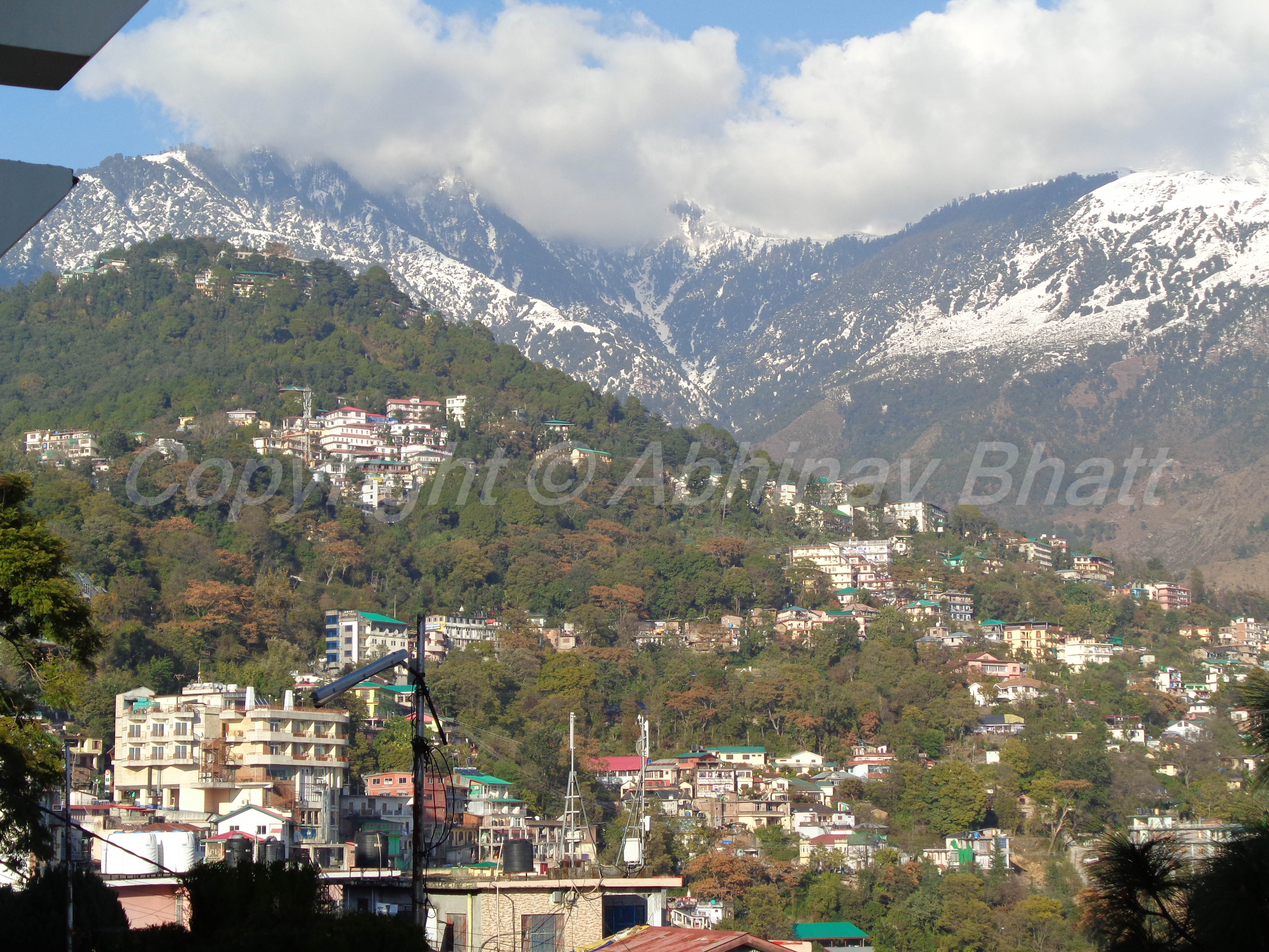
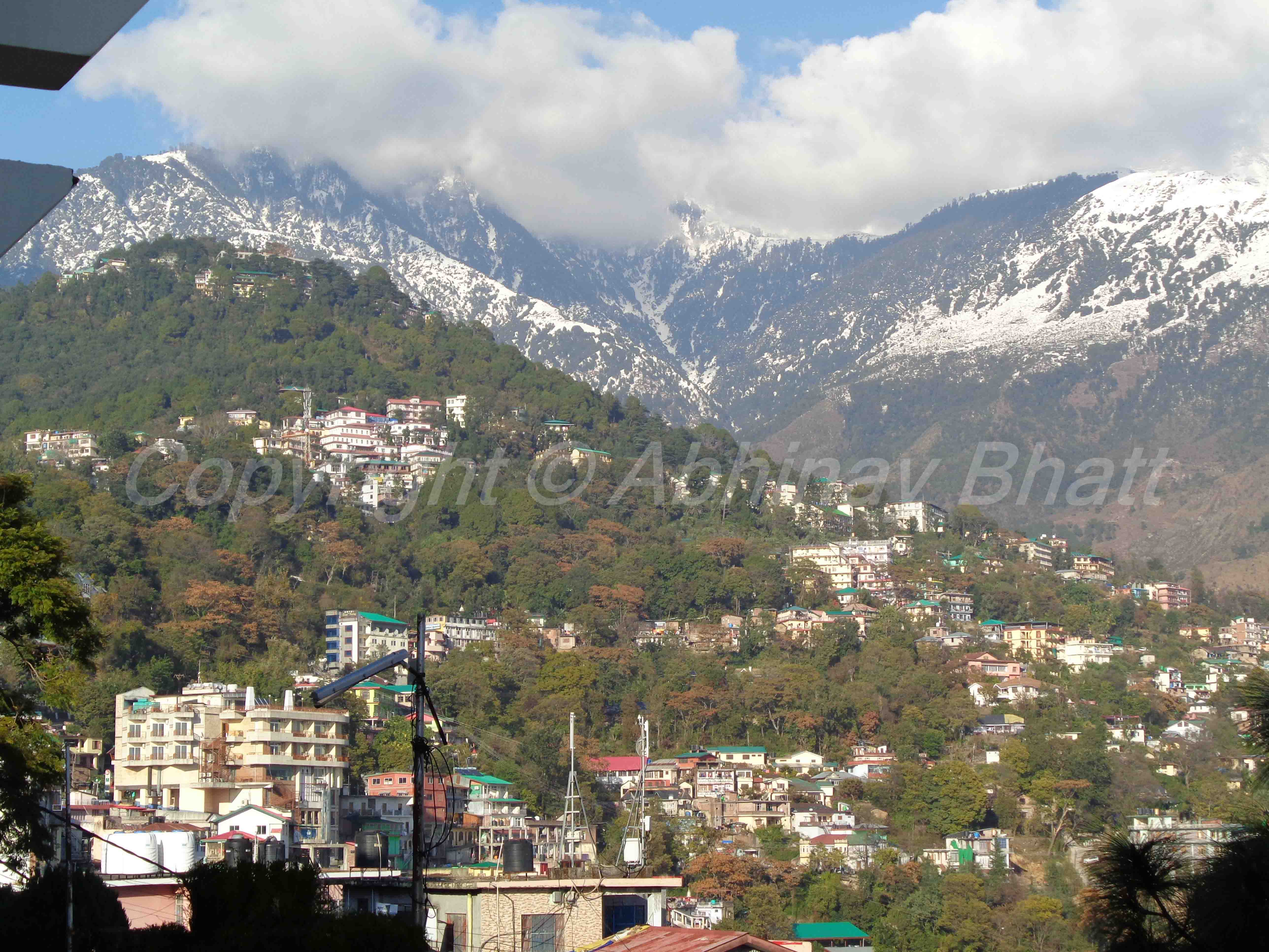
updated First Version

diff --git a/gallery.html b/gallery.html
@@ -138,8 +138,8 @@
                     </a>
                 </div>
                 <div class="col-lg-4 col-md-6 col-sm-6 portfolio-thumbnail all na">
-                    <a class="popup-img" href="images/portfolio/nature/2.png">
-                       <img src="images/portfolio/nature/2.png" alt="img" style="width:320px;height:280px">
+                    <a class="popup-img" href="images/portfolio/nature/2.jpg">
+                       <img src="images/portfolio/nature/2.jpg" alt="img" style="width:320px;height:280px">
                      </a>
                  </div>
                  <div class="col-lg-4 col-md-6 col-sm-6 portfolio-thumbnail na all">
@@ -148,13 +148,13 @@
                      </a>
                  </div>
                  <div class="col-lg-4 col-md-6 col-sm-6 portfolio-thumbnail na all">
-                    <a class="popup-img" href="images/portfolio/nature/4.png">
-                       <img src="images/portfolio/nature/4.png" alt="img" style="width:320px;height:280px">
+                    <a class="popup-img" href="images/portfolio/nature/4.jpg">
+                       <img src="images/portfolio/nature/4.jpg" alt="img" style="width:320px;height:280px">
                      </a>
                  </div>
                  <div class="col-lg-4 col-md-6 col-sm-6 portfolio-thumbnail na all">
-                    <a class="popup-img" href="images/portfolio/nature/5.png">
-                       <img src="images/portfolio/nature/5.png" alt="img" style="width:320px;height:280px">
+                    <a class="popup-img" href="images/portfolio/nature/5.jpg">
+                       <img src="images/portfolio/nature/5.jpg" alt="img" style="width:320px;height:280px">
                      </a>
                  </div>
                  <div class="col-lg-4 col-md-6 col-sm-6 portfolio-thumbnail na all">
@@ -163,8 +163,8 @@
                      </a>
                  </div>
                  <div class="col-lg-4 col-md-6 col-sm-6 portfolio-thumbnail na all">
-                    <a class="popup-img" href="images/portfolio/nature/7.png">
-                       <img src="images/portfolio/nature/7.png" alt="img" style="width:320px;height:280px">
+                    <a class="popup-img" href="images/portfolio/nature/7.jpg">
+                       <img src="images/portfolio/nature/7.jpg" alt="img" style="width:320px;height:280px">
                      </a>
                  </div>
                  <div class="col-lg-4 col-md-6 col-sm-6 portfolio-thumbnail na all">
@@ -173,38 +173,38 @@
                      </a>
                  </div>
                  <div class="col-lg-4 col-md-6 col-sm-6 portfolio-thumbnail na all">
-                    <a class="popup-img" href="images/portfolio/nature/9.png">
-                       <img src="images/portfolio/nature/9.png" alt="img" style="width:320px;height:280px">
+                    <a class="popup-img" href="images/portfolio/nature/9.jpg">
+                       <img src="images/portfolio/nature/9.jpg" alt="img" style="width:320px;height:280px">
                      </a>
                  </div>
                  <div class="col-lg-4 col-md-6 col-sm-6 portfolio-thumbnail na all">
-                    <a class="popup-img" href="images/portfolio/nature/10.png">
-                       <img src="images/portfolio/nature/10.png" alt="img" style="width:320px;height:280px">
+                    <a class="popup-img" href="images/portfolio/nature/10.jpg">
+                       <img src="images/portfolio/nature/10.jpg" alt="img" style="width:320px;height:280px">
                      </a>
                  </div>
                  <div class="col-lg-4 col-md-6 col-sm-6 portfolio-thumbnail na all">
-                    <a class="popup-img" href="images/portfolio/nature/11.png">
-                       <img src="images/portfolio/nature/11.png" alt="img" style="width:320px;height:280px">
+                    <a class="popup-img" href="images/portfolio/nature/11.jpg">
+                       <img src="images/portfolio/nature/11.jpg" alt="img" style="width:320px;height:280px">
                      </a>
                  </div>
                  <div class="col-lg-4 col-md-6 col-sm-6 portfolio-thumbnail na all">
-                    <a class="popup-img" href="images/portfolio/nature/12.png">
-                       <img src="images/portfolio/nature/12.png" alt="img" style="width:320px;height:280px">
+                    <a class="popup-img" href="images/portfolio/nature/12.jpg">
+                       <img src="images/portfolio/nature/12.jpg" alt="img" style="width:320px;height:280px">
                      </a>
                  </div>
                  <div class="col-lg-4 col-md-6 col-sm-6 portfolio-thumbnail na all">
-                    <a class="popup-img" href="images/portfolio/nature/13.png">
-                       <img src="images/portfolio/nature/13.png" alt="img" style="width:320px;height:280px">
+                    <a class="popup-img" href="images/portfolio/nature/13.jpg">
+                       <img src="images/portfolio/nature/13.jpg" alt="img" style="width:320px;height:280px">
                      </a>
                  </div>
                  <div class="col-lg-4 col-md-6 col-sm-6 portfolio-thumbnail na all">
-                    <a class="popup-img" href="images/portfolio/nature/14.png">
-                       <img src="images/portfolio/nature/14.png" alt="img" style="width:320px;height:280px">
+                    <a class="popup-img" href="images/portfolio/nature/14.jpg">
+                       <img src="images/portfolio/nature/14.jpg" alt="img" style="width:320px;height:280px">
                      </a>
                  </div>
                  <div class="col-lg-4 col-md-6 col-sm-6 portfolio-thumbnail na all">
-                    <a class="popup-img" href="images/portfolio/nature/15.png">
-                       <img src="images/portfolio/nature/15.png" alt="img" style="width:320px;height:280px">
+                    <a class="popup-img" href="images/portfolio/nature/15.jpg">
+                       <img src="images/portfolio/nature/15.jpg" alt="img" style="width:320px;height:280px">
                      </a>
                  </div>
                  <div class="col-lg-4 col-md-6 col-sm-6 portfolio-thumbnail na all">
@@ -219,13 +219,13 @@
 
 
                  <div class="col-lg-4 col-md-6 col-sm-6 portfolio-thumbnail ms all">
-                    <a class="popup-img" href="images/portfolio/monasteries/1.png">
-                       <img src="images/portfolio/monasteries/1.png" alt="img" style="width:320px;height:280px">
+                    <a class="popup-img" href="images/portfolio/monasteries/1.jpg">
+                       <img src="images/portfolio/monasteries/1.jpg" alt="img" style="width:320px;height:280px">
                      </a>
                  </div>
                  <div class="col-lg-4 col-md-6 col-sm-6 portfolio-thumbnail ms all">
-                     <a class="popup-img" href="images/portfolio/monasteries/2.png">
-                        <img src="images/portfolio/monasteries/2.png" alt="img" style="width:320px;height:280px">
+                     <a class="popup-img" href="images/portfolio/monasteries/2.jpg">
+                        <img src="images/portfolio/monasteries/2.jpg" alt="img" style="width:320px;height:280px">
                       </a>
                   </div>
                   <div class="col-lg-4 col-md-6 col-sm-6 portfolio-thumbnail ms all">
@@ -234,58 +234,58 @@
                       </a>
                   </div>
                   <div class="col-lg-4 col-md-6 col-sm-6 portfolio-thumbnail ms all">
-                     <a class="popup-img" href="images/portfolio/monasteries/4.png">
-                        <img src="images/portfolio/monasteries/4.png" alt="img" style="width:320px;height:280px">
+                     <a class="popup-img" href="images/portfolio/monasteries/4.jpg">
+                        <img src="images/portfolio/monasteries/4.jpg" alt="img" style="width:320px;height:280px">
                       </a>
                   </div>
                   <div class="col-lg-4 col-md-6 col-sm-6 portfolio-thumbnail ms all">
-                     <a class="popup-img" href="images/portfolio/monasteries/5.png">
-                        <img src="images/portfolio/monasteries/5.png" alt="img" style="width:320px;height:280px">
+                     <a class="popup-img" href="images/portfolio/monasteries/5.jpg">
+                        <img src="images/portfolio/monasteries/5.jpg" alt="img" style="width:320px;height:280px">
                       </a>
                   </div>
                   <div class="col-lg-4 col-md-6 col-sm-6 portfolio-thumbnail ms all">
-                     <a class="popup-img" href="images/portfolio/monasteries/6.png">
-                        <img src="images/portfolio/monasteries/6.png" alt="img" style="width:320px;height:280px">
+                     <a class="popup-img" href="images/portfolio/monasteries/6.jpg">
+                        <img src="images/portfolio/monasteries/6.jpg" alt="img" style="width:320px;height:280px">
                       </a>
                   </div>
                   <div class="col-lg-4 col-md-6 col-sm-6 portfolio-thumbnail ms all">
-                     <a class="popup-img" href="images/portfolio/monasteries/7.png">
-                        <img src="images/portfolio/monasteries/7.png" alt="img" style="width:320px;height:280px">
+                     <a class="popup-img" href="images/portfolio/monasteries/7.jpg">
+                        <img src="images/portfolio/monasteries/7.jpg" alt="img" style="width:320px;height:280px">
                       </a>
                   </div>
                   <div class="col-lg-4 col-md-6 col-sm-6 portfolio-thumbnail ms all">
-                     <a class="popup-img" href="images/portfolio/monasteries/8.png">
-                        <img src="images/portfolio/monasteries/8.png" alt="img" style="width:320px;height:280px">
+                     <a class="popup-img" href="images/portfolio/monasteries/8.jpg">
+                        <img src="images/portfolio/monasteries/8.jpg" alt="img" style="width:320px;height:280px">
                       </a>
                   </div>
                   <div class="col-lg-4 col-md-6 col-sm-6 portfolio-thumbnail ms all">
-                     <a class="popup-img" href="images/portfolio/monasteries/9.png">
-                        <img src="images/portfolio/monasteries/9.png" alt="img" style="width:320px;height:280px">
+                     <a class="popup-img" href="images/portfolio/monasteries/9.jpg">
+                        <img src="images/portfolio/monasteries/9.jpg" alt="img" style="width:320px;height:280px">
                       </a>
                   </div>
                   <div class="col-lg-4 col-md-6 col-sm-6 portfolio-thumbnail ms all">
-                     <a class="popup-img" href="images/portfolio/monasteries/10.png">
-                        <img src="images/portfolio/monasteries/10.png" alt="img" style="width:320px;height:280px">
+                     <a class="popup-img" href="images/portfolio/monasteries/10.jpg">
+                        <img src="images/portfolio/monasteries/10.jpg" alt="img" style="width:320px;height:280px">
                       </a>
                   </div>
                   <div class="col-lg-4 col-md-6 col-sm-6 portfolio-thumbnail ms all">
-                     <a class="popup-img" href="images/portfolio/monasteries/11.png">
-                        <img src="images/portfolio/monasteries/11.png" alt="img" style="width:320px;height:280px">
+                     <a class="popup-img" href="images/portfolio/monasteries/11.jpg">
+                        <img src="images/portfolio/monasteries/11.jpg" alt="img" style="width:320px;height:280px">
                       </a>
                   </div>
                   <div class="col-lg-4 col-md-6 col-sm-6 portfolio-thumbnail ms all">
-                     <a class="popup-img" href="images/portfolio/monasteries/12.png">
-                        <img src="images/portfolio/monasteries/12.png" alt="img" style="width:320px;height:280px">
+                     <a class="popup-img" href="images/portfolio/monasteries/12.jpg">
+                        <img src="images/portfolio/monasteries/12.jpg" alt="img" style="width:320px;height:280px">
                       </a>
                   </div>
                   <div class="col-lg-4 col-md-6 col-sm-6 portfolio-thumbnail ms all">
-                     <a class="popup-img" href="images/portfolio/monasteries/13.png">
-                        <img src="images/portfolio/monasteries/13.png" alt="img" style="width:320px;height:280px">
+                     <a class="popup-img" href="images/portfolio/monasteries/13.jpg">
+                        <img src="images/portfolio/monasteries/13.jpg" alt="img" style="width:320px;height:280px">
                       </a>
                   </div>
                   <div class="col-lg-4 col-md-6 col-sm-6 portfolio-thumbnail ms all">
-                     <a class="popup-img" href="images/portfolio/monasteries/14.png">
-                        <img src="images/portfolio/monasteries/14.png" alt="img" style="width:320px;height:280px">
+                     <a class="popup-img" href="images/portfolio/monasteries/14.jpg">
+                        <img src="images/portfolio/monasteries/14.jpg" alt="img" style="width:320px;height:280px">
                       </a>
                   </div>
                   <div class="col-lg-4 col-md-6 col-sm-6 portfolio-thumbnail ms all">
@@ -294,8 +294,8 @@
                       </a>
                   </div>
                   <div class="col-lg-4 col-md-6 col-sm-6 portfolio-thumbnail ms all">
-                     <a class="popup-img" href="images/portfolio/monasteries/16.png">
-                        <img src="images/portfolio/monasteries/16.png" alt="img" style="width:320px;height:280px">
+                     <a class="popup-img" href="images/portfolio/monasteries/16.jpg">
+                        <img src="images/portfolio/monasteries/16.jpg" alt="img" style="width:320px;height:280px">
                       </a>
                   </div>
 
@@ -324,18 +324,18 @@
                      </a>
                   </div>
                   <div class="col-lg-4 col-md-6 col-sm-6 portfolio-thumbnail ub all">
-                    <a class="popup-img" href="images/portfolio/urban/2.png">
-                       <img src="images/portfolio/urban/2.png" alt="img" style="width:320px;height:280px">
+                    <a class="popup-img" href="images/portfolio/urban/2.jpg">
+                       <img src="images/portfolio/urban/2.jpg" alt="img" style="width:320px;height:280px">
                      </a>
                   </div>
                   <div class="col-lg-4 col-md-6 col-sm-6 portfolio-thumbnail ub all">
-                    <a class="popup-img" href="images/portfolio/urban/3.png">
-                       <img src="images/portfolio/urban/3.png" alt="img" style="width:320px;height:280px">
+                    <a class="popup-img" href="images/portfolio/urban/3.jpg">
+                       <img src="images/portfolio/urban/3.jpg" alt="img" style="width:320px;height:280px">
                      </a>
                   </div>
                   <div class="col-lg-4 col-md-6 col-sm-6 portfolio-thumbnail ub all">
-                    <a class="popup-img" href="images/portfolio/urban/4.png">
-                       <img src="images/portfolio/urban/4.png" alt="img" style="width:320px;height:280px">
+                    <a class="popup-img" href="images/portfolio/urban/4.jpg">
+                       <img src="images/portfolio/urban/4.jpg" alt="img" style="width:320px;height:280px">
                      </a>
                   </div>
                   <div class="col-lg-4 col-md-6 col-sm-6 portfolio-thumbnail ub all">
